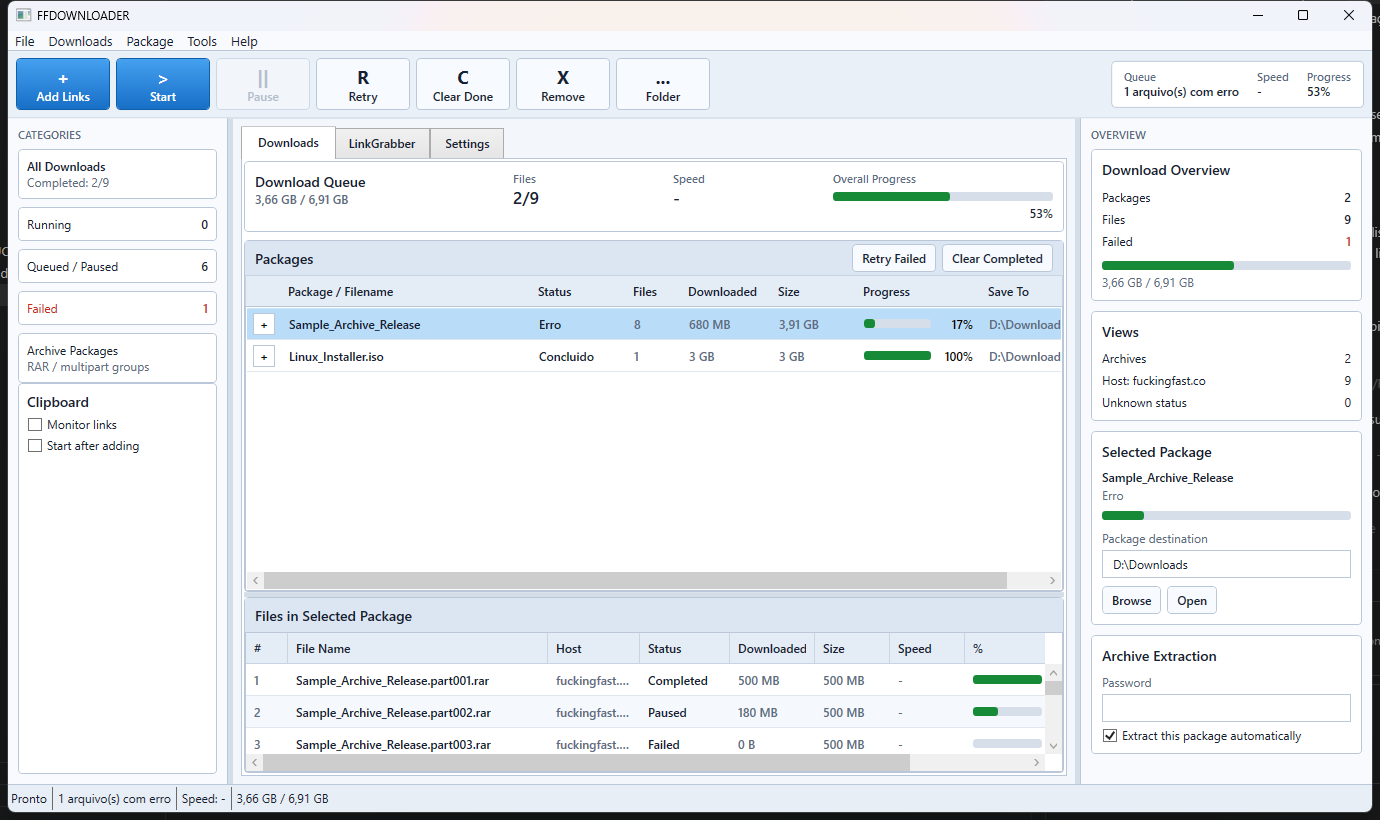
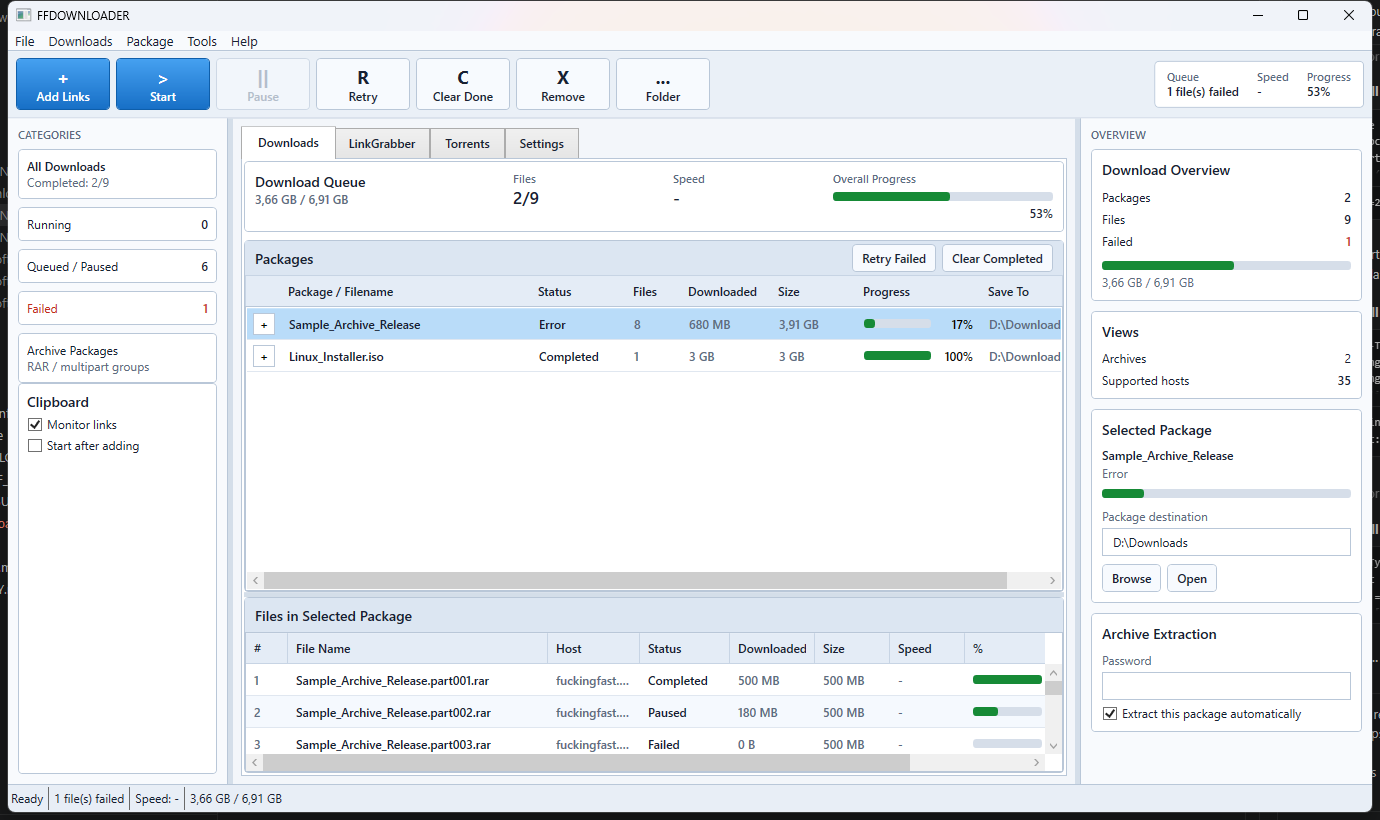
Refresh README screenshots and fix last leftover Portuguese string
The two screenshots embedded in the README predated the Torrents tab,
the "Supported hosts" overview line, and the UI translation pass, so
they still showed the old layout with mixed Portuguese/English text
(Erro, Concluido, Pronto). Recaptured both from a running v1.1.0 build
seeded with the same sample data. Also fixes one leftover Portuguese
status message in MainViewModel that a previous translation sweep
missed, and bumps the README's build example to -Version 1.1.0.

diff --git a/src/FFDownloader.App/ViewModels/MainViewModel.cs b/src/FFDownloader.App/ViewModels/MainViewModel.cs
@@ -705,7 +705,7 @@ public sealed class MainViewModel : ObservableObject, IDisposable
             AppLogger.Error(ex, $"Download item failed: {item.FileName}");
             item.Status = DownloadStatus.Failed;
             item.ErrorMessage = ex.Message;
-            StatusMessage = $"Erro em {item.FileName}: {ex.Message}";
+            StatusMessage = $"Error in {item.FileName}: {ex.Message}";
             RefreshDashboard();
             SaveQueueState();
         }

diff --git a/README.md b/README.md
@@ -61,7 +61,7 @@ dotnet build src\FFDownloader.App\FFDownloader.App.csproj -c Release
 Publish the portable executable:
 
 ```powershell
-.\scripts\package-release.ps1 -Version 1.0.0
+.\scripts\package-release.ps1 -Version 1.1.0
 ```
 
 The release ZIP is written to `artifacts\release\`.